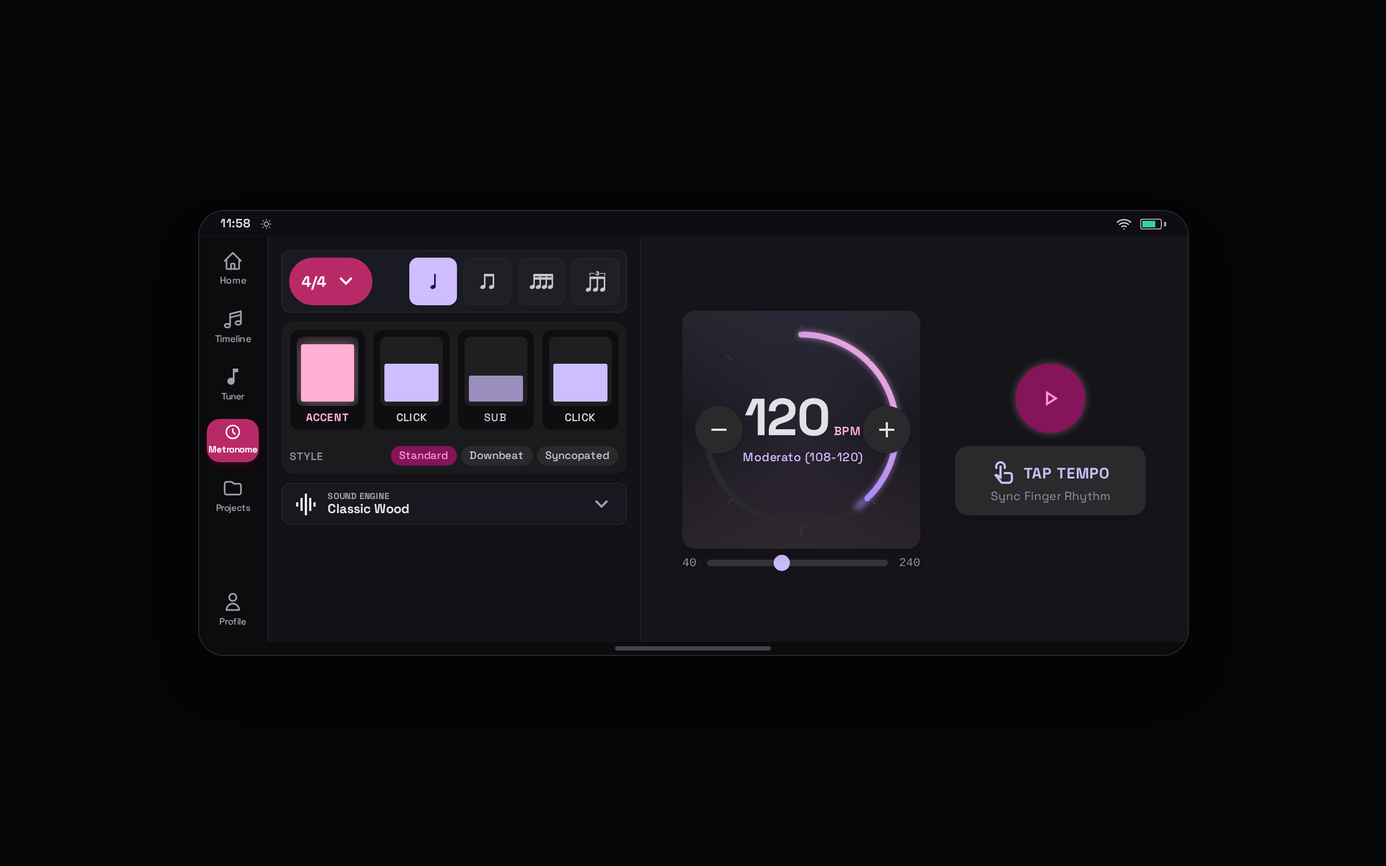
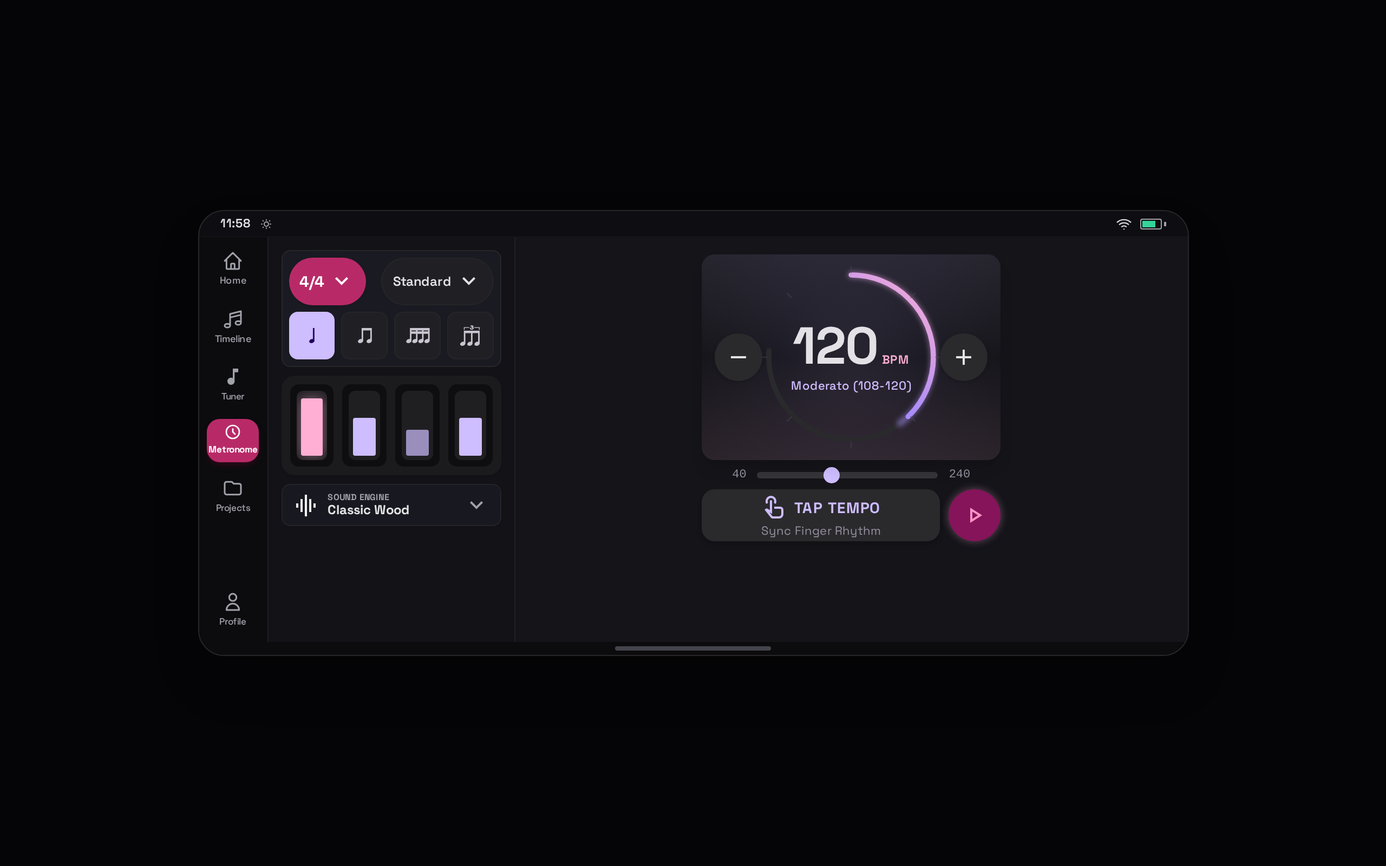
design(stitch): metronome landscape v5 — 1:3 split, stacked menu pills and tiles, dial block with the transport underneath (feature 004 D1)

diff --git a/design/stitch/screens/metronome/phone-landscape/index.html b/design/stitch/screens/metronome/phone-landscape/index.html
@@ -145,10 +145,10 @@
 <!-- END: LeftmostNavRail -->
 <!-- BEGIN: ControlsPanel -->
 <!-- Compact sidebar containing all settings reorganized from Image 32 toolbar -->
-<section class="w-[344px] bg-[#121217] border-r border-[#202027] p-3 flex flex-col justify-start gap-2 shrink-0 select-none z-10 overflow-y-auto" data-purpose="metronome-controls-panel"><!-- Bar-shape row (design iteration D1, 2026-10-01): time-signature menu pill beside the four subdivision tiles, as on the phone screen -->
-<div class="bg-[#1a1a22] p-1.5 rounded-lg border border-zinc-800 flex items-center justify-between gap-2">
-<button type="button" class="h-11 px-3 rounded-full bg-[#b82a67] text-white font-bold text-sm flex items-center gap-1.5 shadow-sm" aria-haspopup="listbox" aria-expanded="false" title="Time signature"><span>4/4</span><span class="material-symbols-outlined text-[16px] leading-none">expand_more</span></button>
-<div class="flex items-center gap-1.5"><button type="button" class="w-11 h-11 rounded-lg bg-[#cebdff] text-[#21005e] flex items-center justify-center shadow-sm" title="1/4" aria-label="1/4" aria-pressed="true"><svg class="w-6 h-6 fill-current" viewBox="0 0 24 24" aria-hidden="true"><path d="M14.35,16.2L14.41,16.43L14.43,16.67L14.41,16.91L14.34,17.16L14.24,17.41L14.1,17.65L13.92,17.88L13.71,18.09L13.47,18.29L13.2,18.47L12.92,18.62L12.62,18.75L12.3,18.84L11.99,18.91L11.67,18.94L11.36,18.95L11.06,18.92L10.77,18.85L10.51,18.76L10.27,18.64L10.07,18.49L9.89,18.32L9.75,18.12L9.65,17.91L9.59,17.68L9.57,17.44L9.59,17.2L9.66,16.95L9.76,16.7L9.9,16.46L10.08,16.23L10.29,16.02L10.53,15.82L10.8,15.64L11.08,15.49L11.38,15.36L11.7,15.27L12.01,15.2L12.33,15.16L12.64,15.16L12.94,15.19L13.23,15.25L13.49,15.35L13.73,15.47L13.93,15.62L14.11,15.79L14.25,15.99Z M12.98,5.05L14.38,5.05L14.38,16.75L12.98,16.75Z"/></svg></button>
+<section class="w-[25%] min-w-0 shrink-0 bg-[#121217] border-r border-[#202027] p-3 flex flex-col justify-start gap-2 select-none z-10 overflow-y-auto" data-purpose="metronome-controls-panel"><!-- Landscape bar-shape card (design iteration D1, 2026-10-01, 1:3 split): signature and style menu pills, then the four subdivision tiles -->
+<div class="bg-[#1a1a22] p-1.5 rounded-lg border border-zinc-800 flex flex-col gap-1.5">
+<div class="flex items-center justify-between gap-1.5"><button type="button" class="h-11 px-2.5 rounded-full bg-[#b82a67] text-white font-bold text-sm flex items-center gap-1 shadow-sm" aria-haspopup="listbox" aria-expanded="false" title="Time signature"><span>4/4</span><span class="material-symbols-outlined text-[16px] leading-none">expand_more</span></button><button type="button" class="h-11 px-2.5 rounded-full bg-[#202024] text-[#e4e1e6] font-semibold text-xs flex items-center gap-1 border border-zinc-800/80" aria-haspopup="listbox" aria-expanded="false" title="Style"><span>Standard</span><span class="material-symbols-outlined text-[16px] leading-none">expand_more</span></button></div>
+<div class="flex items-center justify-between gap-1.5"><button type="button" class="w-11 h-11 rounded-lg bg-[#cebdff] text-[#21005e] flex items-center justify-center shadow-sm" title="1/4" aria-label="1/4" aria-pressed="true"><svg class="w-6 h-6 fill-current" viewBox="0 0 24 24" aria-hidden="true"><path d="M14.35,16.2L14.41,16.43L14.43,16.67L14.41,16.91L14.34,17.16L14.24,17.41L14.1,17.65L13.92,17.88L13.71,18.09L13.47,18.29L13.2,18.47L12.92,18.62L12.62,18.75L12.3,18.84L11.99,18.91L11.67,18.94L11.36,18.95L11.06,18.92L10.77,18.85L10.51,18.76L10.27,18.64L10.07,18.49L9.89,18.32L9.75,18.12L9.65,17.91L9.59,17.68L9.57,17.44L9.59,17.2L9.66,16.95L9.76,16.7L9.9,16.46L10.08,16.23L10.29,16.02L10.53,15.82L10.8,15.64L11.08,15.49L11.38,15.36L11.7,15.27L12.01,15.2L12.33,15.16L12.64,15.16L12.94,15.19L13.23,15.25L13.49,15.35L13.73,15.47L13.93,15.62L14.11,15.79L14.25,15.99Z M12.98,5.05L14.38,5.05L14.38,16.75L12.98,16.75Z"/></svg></button>
 <button type="button" class="w-11 h-11 rounded-lg bg-[#202024] text-[#c9c5d0] hover:text-white flex items-center justify-center border border-zinc-800/80 transition-colors" title="1/8" aria-label="1/8"><svg class="w-6 h-6 fill-current" viewBox="0 0 24 24" aria-hidden="true"><path d="M10.35,16.2L10.41,16.43L10.43,16.67L10.41,16.91L10.34,17.16L10.24,17.41L10.1,17.65L9.92,17.88L9.71,18.09L9.47,18.29L9.2,18.47L8.92,18.62L8.62,18.75L8.3,18.84L7.99,18.91L7.67,18.94L7.36,18.95L7.06,18.92L6.77,18.85L6.51,18.76L6.27,18.64L6.07,18.49L5.89,18.32L5.75,18.12L5.65,17.91L5.59,17.68L5.57,17.44L5.59,17.2L5.66,16.95L5.76,16.7L5.9,16.46L6.08,16.23L6.29,16.02L6.53,15.82L6.8,15.64L7.08,15.49L7.38,15.36L7.7,15.27L8.01,15.2L8.33,15.16L8.64,15.16L8.94,15.19L9.23,15.25L9.49,15.35L9.73,15.47L9.93,15.62L10.11,15.79L10.25,15.99Z M8.98,5.05L10.38,5.05L10.38,16.75L8.98,16.75Z M18.35,16.2L18.41,16.43L18.43,16.67L18.41,16.91L18.34,17.16L18.24,17.41L18.1,17.65L17.92,17.88L17.71,18.09L17.47,18.29L17.2,18.47L16.92,18.62L16.62,18.75L16.3,18.84L15.99,18.91L15.67,18.94L15.36,18.95L15.06,18.92L14.77,18.85L14.51,18.76L14.27,18.64L14.07,18.49L13.89,18.32L13.75,18.12L13.65,17.91L13.59,17.68L13.57,17.44L13.59,17.2L13.66,16.95L13.76,16.7L13.9,16.46L14.08,16.23L14.29,16.02L14.53,15.82L14.8,15.64L15.08,15.49L15.38,15.36L15.7,15.27L16.01,15.2L16.33,15.16L16.64,15.16L16.94,15.19L17.23,15.25L17.49,15.35L17.73,15.47L17.93,15.62L18.11,15.79L18.25,15.99Z M16.98,5.05L18.38,5.05L18.38,16.75L16.98,16.75Z M8.98,5.05L18.38,5.05L18.38,7.25L8.98,7.25Z"/></svg></button>
 <button type="button" class="w-11 h-11 rounded-lg bg-[#202024] text-[#c9c5d0] hover:text-white flex items-center justify-center border border-zinc-800/80 transition-colors" title="1/16" aria-label="1/16"><svg class="w-6 h-6 fill-current" viewBox="0 0 24 24" aria-hidden="true"><path d="M5.95,16.2L6.01,16.43L6.03,16.67L6.01,16.91L5.94,17.16L5.84,17.41L5.7,17.65L5.52,17.88L5.31,18.09L5.07,18.29L4.8,18.47L4.52,18.62L4.22,18.75L3.9,18.84L3.59,18.91L3.27,18.94L2.96,18.95L2.66,18.92L2.37,18.85L2.11,18.76L1.87,18.64L1.67,18.49L1.49,18.32L1.35,18.12L1.25,17.91L1.19,17.68L1.17,17.44L1.19,17.2L1.26,16.95L1.36,16.7L1.5,16.46L1.68,16.23L1.89,16.02L2.13,15.82L2.4,15.64L2.68,15.49L2.98,15.36L3.3,15.27L3.61,15.2L3.93,15.16L4.24,15.16L4.54,15.19L4.83,15.25L5.09,15.35L5.33,15.47L5.53,15.62L5.71,15.79L5.85,15.99Z M4.58,5.05L5.98,5.05L5.98,16.75L4.58,16.75Z M11.55,16.2L11.61,16.43L11.63,16.67L11.61,16.91L11.54,17.16L11.44,17.41L11.3,17.65L11.12,17.88L10.91,18.09L10.67,18.29L10.4,18.47L10.12,18.62L9.82,18.75L9.5,18.84L9.19,18.91L8.87,18.94L8.56,18.95L8.26,18.92L7.97,18.85L7.71,18.76L7.47,18.64L7.27,18.49L7.09,18.32L6.95,18.12L6.85,17.91L6.79,17.68L6.77,17.44L6.79,17.2L6.86,16.95L6.96,16.7L7.1,16.46L7.28,16.23L7.49,16.02L7.73,15.82L8,15.64L8.28,15.49L8.58,15.36L8.9,15.27L9.21,15.2L9.53,15.16L9.84,15.16L10.14,15.19L10.43,15.25L10.69,15.35L10.93,15.47L11.13,15.62L11.31,15.79L11.45,15.99Z M10.18,5.05L11.58,5.05L11.58,16.75L10.18,16.75Z M17.15,16.2L17.21,16.43L17.23,16.67L17.21,16.91L17.14,17.16L17.04,17.41L16.9,17.65L16.72,17.88L16.51,18.09L16.27,18.29L16,18.47L15.72,18.62L15.42,18.75L15.1,18.84L14.79,18.91L14.47,18.94L14.16,18.95L13.86,18.92L13.57,18.85L13.31,18.76L13.07,18.64L12.87,18.49L12.69,18.32L12.55,18.12L12.45,17.91L12.39,17.68L12.37,17.44L12.39,17.2L12.46,16.95L12.56,16.7L12.7,16.46L12.88,16.23L13.09,16.02L13.33,15.82L13.6,15.64L13.88,15.49L14.18,15.36L14.5,15.27L14.81,15.2L15.13,15.16L15.44,15.16L15.74,15.19L16.03,15.25L16.29,15.35L16.53,15.47L16.73,15.62L16.91,15.79L17.05,15.99Z M15.78,5.05L17.18,5.05L17.18,16.75L15.78,16.75Z M22.75,16.2L22.81,16.43L22.83,16.67L22.81,16.91L22.74,17.16L22.64,17.41L22.5,17.65L22.32,17.88L22.11,18.09L21.87,18.29L21.6,18.47L21.32,18.62L21.02,18.75L20.7,18.84L20.39,18.91L20.07,18.94L19.76,18.95L19.46,18.92L19.17,18.85L18.91,18.76L18.67,18.64L18.47,18.49L18.29,18.32L18.15,18.12L18.05,17.91L17.99,17.68L17.97,17.44L17.99,17.2L18.06,16.95L18.16,16.7L18.3,16.46L18.48,16.23L18.69,16.02L18.93,15.82L19.2,15.64L19.48,15.49L19.78,15.36L20.1,15.27L20.41,15.2L20.73,15.16L21.04,15.16L21.34,15.19L21.63,15.25L21.89,15.35L22.13,15.47L22.33,15.62L22.51,15.79L22.65,15.99Z M21.38,5.05L22.78,5.05L22.78,16.75L21.38,16.75Z M4.58,5.05L22.78,5.05L22.78,7.25L4.58,7.25Z M4.58,8.15L22.78,8.15L22.78,10.35L4.58,10.35Z"/></svg></button>
 <button type="button" class="w-11 h-11 rounded-lg bg-[#202024] text-[#c9c5d0] hover:text-white flex items-center justify-center border border-zinc-800/80 transition-colors" title="3let" aria-label="3let"><svg class="w-6 h-6 fill-current" viewBox="0 0 24 24" aria-hidden="true"><path d="M7.75,18.7L7.81,18.93L7.83,19.16L7.81,19.41L7.74,19.66L7.64,19.9L7.5,20.14L7.32,20.37L7.11,20.59L6.87,20.79L6.6,20.97L6.32,21.12L6.02,21.24L5.7,21.34L5.39,21.41L5.07,21.44L4.76,21.45L4.46,21.42L4.17,21.35L3.91,21.26L3.67,21.14L3.47,20.99L3.29,20.82L3.15,20.62L3.05,20.41L2.99,20.18L2.97,19.94L2.99,19.7L3.06,19.45L3.16,19.2L3.3,18.96L3.48,18.73L3.69,18.52L3.93,18.32L4.2,18.14L4.48,17.99L4.78,17.86L5.1,17.76L5.41,17.7L5.73,17.66L6.04,17.66L6.34,17.69L6.63,17.75L6.89,17.84L7.13,17.97L7.33,18.12L7.51,18.29L7.65,18.48Z M6.38,7.55L7.78,7.55L7.78,19.25L6.38,19.25Z M14.35,18.7L14.41,18.93L14.43,19.16L14.41,19.41L14.34,19.66L14.24,19.9L14.1,20.14L13.92,20.37L13.71,20.59L13.47,20.79L13.2,20.97L12.92,21.12L12.62,21.24L12.3,21.34L11.99,21.41L11.67,21.44L11.36,21.45L11.06,21.42L10.77,21.35L10.51,21.26L10.27,21.14L10.07,20.99L9.89,20.82L9.75,20.62L9.65,20.41L9.59,20.18L9.57,19.94L9.59,19.7L9.66,19.45L9.76,19.2L9.9,18.96L10.08,18.73L10.29,18.52L10.53,18.32L10.8,18.14L11.08,17.99L11.38,17.86L11.7,17.76L12.01,17.7L12.33,17.66L12.64,17.66L12.94,17.69L13.23,17.75L13.49,17.84L13.73,17.97L13.93,18.12L14.11,18.29L14.25,18.48Z M12.98,7.55L14.38,7.55L14.38,19.25L12.98,19.25Z M20.95,18.7L21.01,18.93L21.03,19.16L21.01,19.41L20.94,19.66L20.84,19.9L20.7,20.14L20.52,20.37L20.31,20.59L20.07,20.79L19.8,20.97L19.52,21.12L19.22,21.24L18.9,21.34L18.59,21.41L18.27,21.44L17.96,21.45L17.66,21.42L17.37,21.35L17.11,21.26L16.87,21.14L16.67,20.99L16.49,20.82L16.35,20.62L16.25,20.41L16.19,20.18L16.17,19.94L16.19,19.7L16.26,19.45L16.36,19.2L16.5,18.96L16.68,18.73L16.89,18.52L17.13,18.32L17.4,18.14L17.68,17.99L17.98,17.86L18.3,17.76L18.61,17.7L18.93,17.66L19.24,17.66L19.54,17.69L19.83,17.75L20.09,17.84L20.33,17.97L20.53,18.12L20.71,18.29L20.85,18.48Z M19.58,7.55L20.98,7.55L20.98,19.25L19.58,19.25Z M6.38,7.55L20.98,7.55L20.98,9.75L6.38,9.75Z M12.29,3.09L12.41,2.97L12.58,2.84L12.76,2.75L12.95,2.67L13.16,2.61L13.37,2.57L13.59,2.55L13.8,2.56L14.02,2.58L14.23,2.62L14.43,2.68L14.63,2.76L14.81,2.86L14.97,2.99L15.11,3.14L15.22,3.33L15.29,3.54L15.3,3.76L15.26,3.98L15.16,4.18L15.03,4.35L14.88,4.49L14.71,4.6L14.52,4.69L14.32,4.76L14.11,4.81L13.9,4.84L13.68,4.84L13.18,4.84L13.18,3.89L13.67,3.89L13.81,3.89L13.94,3.87L14.06,3.84L14.16,3.81L14.24,3.77L14.3,3.73L14.34,3.7L14.36,3.68L14.36,3.68L14.35,3.69L14.35,3.71L14.36,3.72L14.35,3.71L14.33,3.69L14.28,3.65L14.21,3.61L14.12,3.57L14.01,3.54L13.88,3.52L13.75,3.5L13.62,3.5L13.49,3.51L13.37,3.54L13.26,3.57L13.16,3.61L13.09,3.65L13.03,3.68L12.98,3.75Z M13.18,3.89L13.69,3.9L13.97,3.91L14.26,3.97L14.54,4.06L14.79,4.18L15.02,4.35L15.22,4.55L15.36,4.79L15.44,5.07L15.45,5.36L15.37,5.63L15.23,5.88L15.04,6.09L14.81,6.25L14.56,6.38L14.29,6.48L14,6.53L13.7,6.55L13.41,6.54L13.12,6.49L12.84,6.4L12.58,6.28L12.35,6.12L12.16,5.92L12.01,5.68L11.92,5.4L11.91,5.12L11.98,4.84L12.08,4.64L12.92,5.09L12.86,5.18L12.85,5.21L12.85,5.24L12.87,5.27L12.9,5.32L12.96,5.39L13.06,5.45L13.19,5.52L13.34,5.56L13.51,5.59L13.69,5.6L13.87,5.59L14.04,5.56L14.19,5.51L14.32,5.44L14.41,5.38L14.47,5.31L14.49,5.27L14.5,5.24L14.5,5.21L14.49,5.18L14.46,5.13L14.4,5.07L14.31,5L14.18,4.94L14.03,4.89L13.86,4.86L13.67,4.84L13.18,4.84Z M6.38,4.2L11.35,4.2L11.35,4.9L6.38,4.9Z M16,4.2L20.98,4.2L20.98,4.9L16,4.9Z M6.38,4.2L7.08,4.2L7.08,6.75L6.38,6.75Z M20.28,4.2L20.98,4.2L20.98,6.75L20.28,6.75Z"/></svg></button></div>
@@ -158,7 +158,7 @@
   
 
   <!-- Section 4: Timbre Sound Selector Dropdown -->
-  <div class="rounded-xl bg-[#1b1b1e] p-2 shadow-sm flex flex-col gap-2"><div class="grid grid-cols-4 gap-2"><div class="beat-col flex flex-col items-center gap-1.5 p-1.5 rounded-lg bg-[#0e0e11] cursor-pointer"><div class="w-full h-16 bg-[#1f1f22] rounded-md p-1 flex items-end overflow-hidden"><div class="w-full bg-[#ffafd3] rounded-sm h-[95%]" style="box-shadow: 0 0 12px rgba(255,175,211,0.5);"></div></div><span class="text-[10px] font-bold tracking-wider text-[#ffafd3] leading-none">ACCENT</span></div><div class="beat-col flex flex-col items-center gap-1.5 p-1.5 rounded-lg bg-[#0e0e11] cursor-pointer"><div class="w-full h-16 bg-[#1f1f22] rounded-md p-1 flex items-end overflow-hidden"><div class="w-full bg-[#cebdff] rounded-sm h-[62%]"></div></div><span class="text-[10px] font-medium tracking-wider text-[#e4e1e6] leading-none">CLICK</span></div><div class="beat-col flex flex-col items-center gap-1.5 p-1.5 rounded-lg bg-[#0e0e11] cursor-pointer"><div class="w-full h-16 bg-[#1f1f22] rounded-md p-1 flex items-end overflow-hidden"><div class="w-full bg-[#cebdff]/70 rounded-sm h-[42%]"></div></div><span class="text-[10px] font-medium tracking-wider text-[#cac4d4] leading-none">SUB</span></div><div class="beat-col flex flex-col items-center gap-1.5 p-1.5 rounded-lg bg-[#0e0e11] cursor-pointer"><div class="w-full h-16 bg-[#1f1f22] rounded-md p-1 flex items-end overflow-hidden"><div class="w-full bg-[#cebdff] rounded-sm h-[62%]"></div></div><span class="text-[10px] font-medium tracking-wider text-[#e4e1e6] leading-none">CLICK</span></div></div><div class="pt-1.5 border-t border-[#1f1f22] flex items-center justify-between gap-1"><span class="text-[10px] font-semibold uppercase tracking-wider text-[#948e9d]">STYLE</span><div class="flex items-center gap-1 flex-wrap justify-end"><button type="button" class="rounded-full px-2 py-1 text-[10px] font-medium bg-[#85145a] text-[#ff93c8] leading-none">Standard</button><button type="button" class="rounded-full px-2 py-1 text-[10px] font-medium bg-[#2a2a2d] text-[#cac4d4] hover:text-white leading-none transition-colors">Downbeat</button><button type="button" class="rounded-full px-2 py-1 text-[10px] font-medium bg-[#2a2a2d] text-[#cac4d4] hover:text-white leading-none transition-colors">Syncopated</button></div></div></div><div class="bg-[#181820] py-1.5 px-2.5 rounded-lg border border-zinc-800/80 flex items-center justify-between cursor-pointer hover:border-zinc-700 transition-colors shadow-sm">
+  <div class="rounded-xl bg-[#1b1b1e] p-2 shadow-sm flex flex-col gap-2"><div class="grid grid-cols-4 gap-2"><div class="beat-col flex flex-col items-center gap-1.5 p-1.5 rounded-lg bg-[#0e0e11] cursor-pointer"><div class="w-full h-16 bg-[#1f1f22] rounded-md p-1 flex items-end overflow-hidden"><div class="w-full bg-[#ffafd3] rounded-sm h-[95%]" style="box-shadow: 0 0 12px rgba(255,175,211,0.5);"></div></div></div><div class="beat-col flex flex-col items-center gap-1.5 p-1.5 rounded-lg bg-[#0e0e11] cursor-pointer"><div class="w-full h-16 bg-[#1f1f22] rounded-md p-1 flex items-end overflow-hidden"><div class="w-full bg-[#cebdff] rounded-sm h-[62%]"></div></div></div><div class="beat-col flex flex-col items-center gap-1.5 p-1.5 rounded-lg bg-[#0e0e11] cursor-pointer"><div class="w-full h-16 bg-[#1f1f22] rounded-md p-1 flex items-end overflow-hidden"><div class="w-full bg-[#cebdff]/70 rounded-sm h-[42%]"></div></div></div><div class="beat-col flex flex-col items-center gap-1.5 p-1.5 rounded-lg bg-[#0e0e11] cursor-pointer"><div class="w-full h-16 bg-[#1f1f22] rounded-md p-1 flex items-end overflow-hidden"><div class="w-full bg-[#cebdff] rounded-sm h-[62%]"></div></div></div></div></div><div class="bg-[#181820] py-1.5 px-2.5 rounded-lg border border-zinc-800/80 flex items-center justify-between cursor-pointer hover:border-zinc-700 transition-colors shadow-sm">
     <div class="flex items-center space-x-2">
       <span class="material-symbols-outlined text-secondary text-base">graphic_eq</span>
       <div class="flex flex-col text-left">
@@ -171,16 +171,16 @@
 <!-- END: ControlsPanel -->
 <!-- BEGIN: TunerGaugeWidget -->
 <!-- Centerpiece widget: frequency arc, needle, note display and status -->
-<main class="flex-1 bg-[#141419] p-3 flex flex-col justify-between relative overflow-hidden" data-purpose="tuner-needle-gauge-widget"><div class="flex flex-col w-full h-full select-none overflow-hidden justify-between p-1">
+<main class="flex-1 min-w-0 bg-[#141419] p-3 flex flex-col items-center justify-center relative overflow-hidden" data-purpose="metronome-dial-pane"><div class="flex flex-col w-full h-full select-none overflow-hidden justify-between p-1">
   <!-- Top bar with active pulse indicator and mute/preset quick bar -->
   
 
-  <div class="flex-1 flex items-center justify-center gap-8 min-h-0">
+  <div class="w-[276px] mx-auto flex flex-col items-center justify-center gap-2 min-h-0">
 <!-- Center Section (left of the transport column): BPM Circular Gauge Dial & Horizontal Slider -->
-  <div class="flex flex-col items-center justify-center min-h-0 relative shrink-0"><div class="w-[220px] h-[220px] relative mx-auto rounded-xl overflow-hidden flex items-center justify-center shadow-lg" style="background-color: #1b1b1e; background-image: radial-gradient(circle, rgba(167,139,250,0.08) 0%, rgba(30,27,46,0.4) 40%, rgba(19,19,22,0.95) 100%);"><div class="absolute inset-0 pointer-events-none z-0" style="background: linear-gradient(180deg, rgba(206,189,255,0.10) 0%, transparent 50%, rgba(255,175,211,0.10) 100%);"></div><svg class="w-full h-full -rotate-90 transform relative z-10" viewBox="0 0 240 240"><defs><filter id="portraitBlurGlow" x="-20%" y="-20%" width="140%" height="140%"><feGaussianBlur stdDeviation="3"></feGaussianBlur></filter><linearGradient id="portraitArcGrad" x1="0%" y1="0%" x2="100%" y2="100%"><stop offset="0%" stop-color="#cebdff"></stop><stop offset="50%" stop-color="#a78bfa"></stop><stop offset="100%" stop-color="#ffafd3"></stop></linearGradient></defs><circle cx="120" cy="120" r="96" fill="none" stroke="#2a2a2d" stroke-width="6" stroke-dasharray="460 140" stroke-linecap="round"></circle><circle cx="120" cy="120" r="96" fill="none" stroke="url(#portraitArcGrad)" stroke-width="8" stroke-dasharray="240 600" stroke-linecap="round" opacity="0.5" filter="url(#portraitBlurGlow)"></circle><circle cx="120" cy="120" r="96" fill="none" stroke="url(#portraitArcGrad)" stroke-width="6" stroke-dasharray="228 600" stroke-linecap="round"></circle><line x1="218" y1="120" x2="226" y2="120" stroke="#494552" stroke-width="1.5" opacity="0.5"></line><line x1="189.29" y1="189.29" x2="194.95" y2="194.95" stroke="#494552" stroke-width="1.5" opacity="0.5"></line><line x1="120" y1="218" x2="120" y2="226" stroke="#494552" stroke-width="1.5" opacity="0.5"></line><line x1="50.71" y1="189.29" x2="45.05" y2="194.95" stroke="#494552" stroke-width="1.5" opacity="0.5"></line><line x1="22" y1="120" x2="14" y2="120" stroke="#494552" stroke-width="1.5" opacity="0.5"></line><line x1="50.71" y1="50.71" x2="45.05" y2="45.05" stroke="#494552" stroke-width="1.5" opacity="0.5"></line><line x1="120" y1="22" x2="120" y2="14" stroke="#494552" stroke-width="1.5" opacity="0.5"></line><line x1="189.29" y1="50.71" x2="194.95" y2="45.05" stroke="#494552" stroke-width="1.5" opacity="0.5"></line></svg><div class="absolute inset-0 flex items-center justify-between px-3 z-20"><button type="button" class="bpm-step-btn w-11 h-11 rounded-full bg-[#2a2a2d] hover:bg-[#353438] active:scale-95 text-[#e4e1e6] flex items-center justify-center shadow transition-all shrink-0 cursor-pointer" data-delta="-1" title="Decrease Tempo"><span class="material-symbols-outlined text-[22px] leading-none">remove</span></button><div class="flex flex-col items-center justify-center text-center select-none pointer-events-none"><div class="flex items-baseline space-x-1 leading-none"><span id="bpmValue" class="text-[48px] font-bold leading-none tracking-tight text-[#e4e1e6]">120</span><span class="text-[11px] font-semibold tracking-wider uppercase text-[#ffafd3]">BPM</span></div><span id="tempoSubText" class="text-[11px] font-medium text-[#d0bcff] tracking-wide mt-1" style="white-space: nowrap;">Moderato (108-120)</span></div><button type="button" class="bpm-step-btn w-11 h-11 rounded-full bg-[#2a2a2d] hover:bg-[#353438] active:scale-95 text-[#e4e1e6] flex items-center justify-center shadow transition-all shrink-0 cursor-pointer" data-delta="1" title="Increase Tempo"><span class="material-symbols-outlined text-[22px] leading-none">add</span></button></div></div><div class="w-[220px] max-w-full flex items-center gap-2.5 mt-2"><span class="text-[11px] font-medium text-[#948e9d] font-mono leading-none">40</span><input type="range" min="40" max="240" value="120" class="flex-1 h-1.5 bg-[#353438] rounded-full appearance-none cursor-pointer accent-[#cebdff]" id="tempoSlider"><span class="text-[11px] font-medium text-[#948e9d] font-mono leading-none">240</span></div></div>
+  <div class="flex flex-col items-center justify-center min-h-0 relative shrink-0"><div class="w-[276px] h-[190px] relative mx-auto rounded-xl overflow-hidden flex items-center justify-center shadow-lg" style="background-color: #1b1b1e; background-image: radial-gradient(circle, rgba(167,139,250,0.08) 0%, rgba(30,27,46,0.4) 40%, rgba(19,19,22,0.95) 100%);"><div class="absolute inset-0 pointer-events-none z-0" style="background: linear-gradient(180deg, rgba(206,189,255,0.10) 0%, transparent 50%, rgba(255,175,211,0.10) 100%);"></div><svg class="w-full h-full -rotate-90 transform relative z-10" viewBox="0 0 240 240"><defs><filter id="portraitBlurGlow" x="-20%" y="-20%" width="140%" height="140%"><feGaussianBlur stdDeviation="3"></feGaussianBlur></filter><linearGradient id="portraitArcGrad" x1="0%" y1="0%" x2="100%" y2="100%"><stop offset="0%" stop-color="#cebdff"></stop><stop offset="50%" stop-color="#a78bfa"></stop><stop offset="100%" stop-color="#ffafd3"></stop></linearGradient></defs><circle cx="120" cy="120" r="96" fill="none" stroke="#2a2a2d" stroke-width="6" stroke-dasharray="460 140" stroke-linecap="round"></circle><circle cx="120" cy="120" r="96" fill="none" stroke="url(#portraitArcGrad)" stroke-width="8" stroke-dasharray="240 600" stroke-linecap="round" opacity="0.5" filter="url(#portraitBlurGlow)"></circle><circle cx="120" cy="120" r="96" fill="none" stroke="url(#portraitArcGrad)" stroke-width="6" stroke-dasharray="228 600" stroke-linecap="round"></circle><line x1="218" y1="120" x2="226" y2="120" stroke="#494552" stroke-width="1.5" opacity="0.5"></line><line x1="189.29" y1="189.29" x2="194.95" y2="194.95" stroke="#494552" stroke-width="1.5" opacity="0.5"></line><line x1="120" y1="218" x2="120" y2="226" stroke="#494552" stroke-width="1.5" opacity="0.5"></line><line x1="50.71" y1="189.29" x2="45.05" y2="194.95" stroke="#494552" stroke-width="1.5" opacity="0.5"></line><line x1="22" y1="120" x2="14" y2="120" stroke="#494552" stroke-width="1.5" opacity="0.5"></line><line x1="50.71" y1="50.71" x2="45.05" y2="45.05" stroke="#494552" stroke-width="1.5" opacity="0.5"></line><line x1="120" y1="22" x2="120" y2="14" stroke="#494552" stroke-width="1.5" opacity="0.5"></line><line x1="189.29" y1="50.71" x2="194.95" y2="45.05" stroke="#494552" stroke-width="1.5" opacity="0.5"></line></svg><div class="absolute inset-0 flex items-center justify-between px-3 z-20"><button type="button" class="bpm-step-btn w-11 h-11 rounded-full bg-[#2a2a2d] hover:bg-[#353438] active:scale-95 text-[#e4e1e6] flex items-center justify-center shadow transition-all shrink-0 cursor-pointer" data-delta="-1" title="Decrease Tempo"><span class="material-symbols-outlined text-[22px] leading-none">remove</span></button><div class="flex flex-col items-center justify-center text-center select-none pointer-events-none"><div class="flex items-baseline space-x-1 leading-none"><span id="bpmValue" class="text-[48px] font-bold leading-none tracking-tight text-[#e4e1e6]">120</span><span class="text-[11px] font-semibold tracking-wider uppercase text-[#ffafd3]">BPM</span></div><span id="tempoSubText" class="text-[11px] font-medium text-[#d0bcff] tracking-wide mt-1" style="white-space: nowrap;">Moderato (108-120)</span></div><button type="button" class="bpm-step-btn w-11 h-11 rounded-full bg-[#2a2a2d] hover:bg-[#353438] active:scale-95 text-[#e4e1e6] flex items-center justify-center shadow transition-all shrink-0 cursor-pointer" data-delta="1" title="Increase Tempo"><span class="material-symbols-outlined text-[22px] leading-none">add</span></button></div></div><div class="w-[220px] max-w-full flex items-center gap-2.5 mt-2"><span class="text-[11px] font-medium text-[#948e9d] font-mono leading-none">40</span><input type="range" min="40" max="240" value="120" class="flex-1 h-1.5 bg-[#353438] rounded-full appearance-none cursor-pointer accent-[#cebdff]" id="tempoSlider"><span class="text-[11px] font-medium text-[#948e9d] font-mono leading-none">240</span></div></div>
 
   <!-- Transport column beside the dial: play above Tap Tempo (design iteration D1, 2026-10-01) -->
-<div class="w-44 flex flex-col items-center justify-center gap-3 shrink-0"><button id="playToggleBtn" type="button" class="w-16 h-16 rounded-full bg-[#85145a] hover:bg-[#a0186c] text-[#ff93c8] flex items-center justify-center active:scale-90 transition-all shrink-0 cursor-pointer" style="box-shadow: 0 0 8px rgba(255,175,211,0.35);" title="Start Metronome"><span id="playIcon" class="material-symbols-outlined text-[34px] leading-none fill-1">play_arrow</span></button><button id="tapTempoBtn" type="button" class="w-full h-16 rounded-xl bg-[#2a2a2d] hover:bg-[#353438] active:scale-[0.99] flex flex-col items-center justify-center shadow-md transition-all cursor-pointer"><div class="flex items-center gap-1.5 text-[#cebdff]"><span class="material-symbols-outlined text-[20px]">touch_app</span><span class="font-bold text-sm tracking-wider uppercase leading-none">TAP TEMPO</span></div><span class="text-[11px] text-[#948e9d] mt-1 leading-none" id="tapHelperText">Sync Finger Rhythm</span></button></div>
+<div class="w-full flex items-center gap-2 shrink-0"><button id="tapTempoBtn" type="button" class="flex-1 h-12 rounded-xl bg-[#2a2a2d] hover:bg-[#353438] active:scale-[0.99] flex flex-col items-center justify-center shadow-md transition-all cursor-pointer"><div class="flex items-center gap-1.5 text-[#cebdff]"><span class="material-symbols-outlined text-[20px]">touch_app</span><span class="font-bold text-sm tracking-wider uppercase leading-none">TAP TEMPO</span></div><span class="text-[11px] text-[#948e9d] mt-1 leading-none" id="tapHelperText">Sync Finger Rhythm</span></button><button id="playToggleBtn" type="button" class="w-12 h-12 rounded-full bg-[#85145a] hover:bg-[#a0186c] text-[#ff93c8] flex items-center justify-center active:scale-90 transition-all shrink-0 cursor-pointer" style="box-shadow: 0 0 8px rgba(255,175,211,0.35);" title="Start Metronome"><span id="playIcon" class="material-symbols-outlined text-[26px] leading-none fill-1">play_arrow</span></button></div>
 </div>
 </div>
 

diff --git a/design/stitch/README.md b/design/stitch/README.md
@@ -29,7 +29,7 @@ Nine screens, each in a phone (390-wide) and tablet (1280-wide) variant; the tun
 | **Instrument tuner** | `instrument-tuner/phone` | `instrument-tuner/tablet` | Guitar / Cello, 6- or 7-string, Auto Listen vs By Ear. Arc gauge with needle, detected note (E2), Hz readout vs target, flat/sharp arrows, "In tune" badge, mic-active pill. |
 | **Tuner by ear** | `tuner-by-ear-cello/phone` | `tuner-by-ear-7-string-guitar/tablet` | Reference-tone mode: tuning preset picker, loop-tone toggle, one card per string (note, Hz, Audition / Playing). |
 | **Tuner, phone landscape** (added 2026-09-28) | `tuner-landscape-auto-listen-a` … `-e`, `tuner-landscape-by-ear-a` … `-g` | — | Twelve variants of the tuner for a phone held sideways (all `DESKTOP` canvases, about 1280 × 410–720). The app follows `tuner-landscape-auto-listen-b` ("Mobile Landscape Auto Listen Tuner") and `tuner-landscape-by-ear-g` / `-e` ("Mobile Landscape By Ear", six and seven strings): a labelled rail, a settings column (instrument, strings, mode, preset, loop toggle) and the gauge or the string cards beside it. Rationale and the rejected variants: `specs/003-instrument-tuner/research.md` R9/R11. |
-| **Metronome** (added 2026-09-29, phone and landscape revised 2026-10-01) | `metronome/phone` | `metronome/tablet` | Phone: one compact "bar shape" card (time-signature menu pill beside four icon-only subdivision tiles drawn with the app's note-figure glyphs, the accent cells in one row, a STYLE pill row), the sound-engine pill, then a gradient BPM dial card that takes the remaining height (in-ring − / + steppers, 40–240 slider), and the Tap Tempo and Play row with an 8 px play halo — the earlier three-card top pushed the dial off a phone screen. Tablet: the original cards layout. `metronome/phone-landscape` is the phone-held-sideways layout (rail, a 344 px controls column holding the same compact bar-shape card as the phone — signature menu pill beside the glyph tiles, one-row accent cells, STYLE pills — and the sound-engine pill, dial with the Play button above the Tap Tempo card beside it; v4, 2026-10-01, after the chip cards pushed the accent cells below the fold on the Pixel). Both phone screens are HTML uploaded from Claude Code (v2 and v3 of the screens; the superseded instances are hidden on the canvas), not Stitch generations: the MCP in-place edit never persists. Stitch's three generated proposals for the compact phone layout ("Metronome Compact (Precision Modular / Studio Flow / Live Performance)") stay in the project for reference; v2 is built on "Live Performance". |
+| **Metronome** (added 2026-09-29, phone and landscape revised 2026-10-01) | `metronome/phone` | `metronome/tablet` | Phone: one compact "bar shape" card (time-signature menu pill beside four icon-only subdivision tiles drawn with the app's note-figure glyphs, the accent cells in one row, a STYLE pill row), the sound-engine pill, then a gradient BPM dial card that takes the remaining height (in-ring − / + steppers, 40–240 slider), and the Tap Tempo and Play row with an 8 px play halo — the earlier three-card top pushed the dial off a phone screen. Tablet: the original cards layout. `metronome/phone-landscape` is the phone-held-sideways layout (rail, then a 1:3 split: a quarter-width controls column holding the landscape bar-shape card — signature and style menu pills on one row, the four glyph tiles, the accent cells without labels — and the sound-engine pill; the dial card with its slider and the Tap Tempo and Play row underneath form one block centred in the remaining three quarters; v5, 2026-10-01, after four user checks on the Pixel). Both phone screens are HTML uploaded from Claude Code (v2 and v3 of the screens; the superseded instances are hidden on the canvas), not Stitch generations: the MCP in-place edit never persists. Stitch's three generated proposals for the compact phone layout ("Metronome Compact (Precision Modular / Studio Flow / Live Performance)") stay in the project for reference; v2 is built on "Live Performance". |
 | **Audio export & stem mastering** | `export-mastering/phone` | `export-mastering/tablet` | Stem routing matrix (per-stem checkbox, tag, format, size), estimated total, format (WAV / FLAC / MP3 320 / AAC), sample rate, bit depth, gradient "Render selected stems" CTA. |
 
 The four original reference mockups uploaded to the project are already in `../mockups/`.
